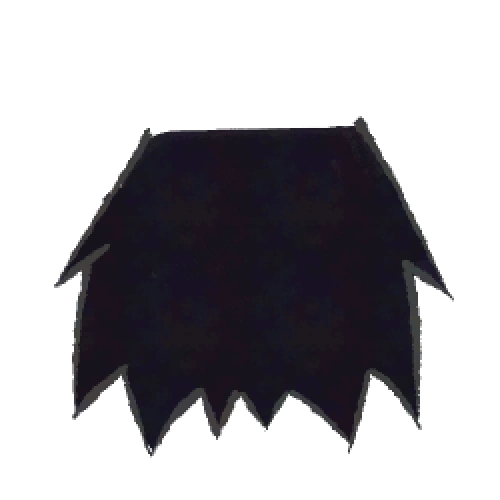
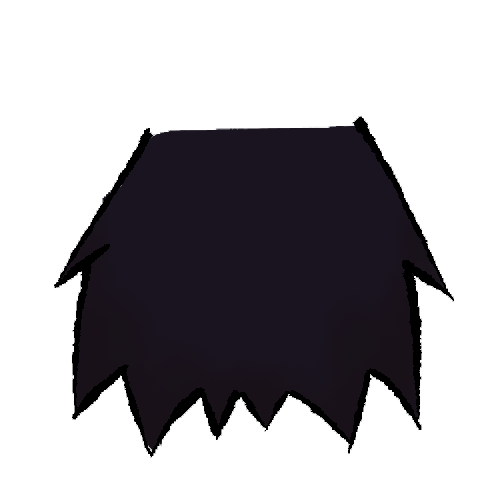
OH MY FUCKING GOD I HATE CODING
I THINK I DID IT!!!

diff --git a/socials.html b/socials.html
@@ -2,18 +2,19 @@
 <head>
     <meta charset='utf-8'>
     <title>StupidTwink</title>
-    <link rel='stylesheet' href='style.css'>    
+    <link rel='stylesheet' href='socials.css'>    
 
 </body>
 </head>
 <body>
 
 <div class="banner"><div class="st"><h1>Stupid Twink!</h1></div></div>
-<a href='https://x.com/ThisStupidTwink' class="button1" style="color:#dfdfdf;">Twitter</a>
-<a href='https://bsky.app/profile/stupidtwink.bsky.social' class="button2" style="color:#9bc4e0;">Bluesky</a>
-<a href='https://www.tumblr.com/stupid-twink-girl' class="button3">Tumblr</a>
+<a href='https://x.com/ThisStupidTwink' class="button1" style="color:#ffffff;">Twitter</a>
+<a href='https://bsky.app/profile/stupidtwink.bsky.social' class="button2" style="color:#5fafe4;">Bluesky</a>
+<a href='https://www.youtube.com/@StupidTwink' class="button3" style="color:#ff4848;">YouTube</a>
 <a href='https://www.reddit.com/r/StupidTwink/' class="button4"  style='color:#dfa772;'>Reddit</a>
 <a href='https://www.instagram.com/thisstupidtwink/' class="button5" style='color:#df72d1;'>Instagram</a>
+<a href='https://www.tumblr.com/stupid-twink-girl'class='button6' style='color:#3847c9; '>Tumblr</a>
 <a href="index.html" class="bb">back</a>
 <div class="face">
     <img class="bangs" src="images/bangs.webp">